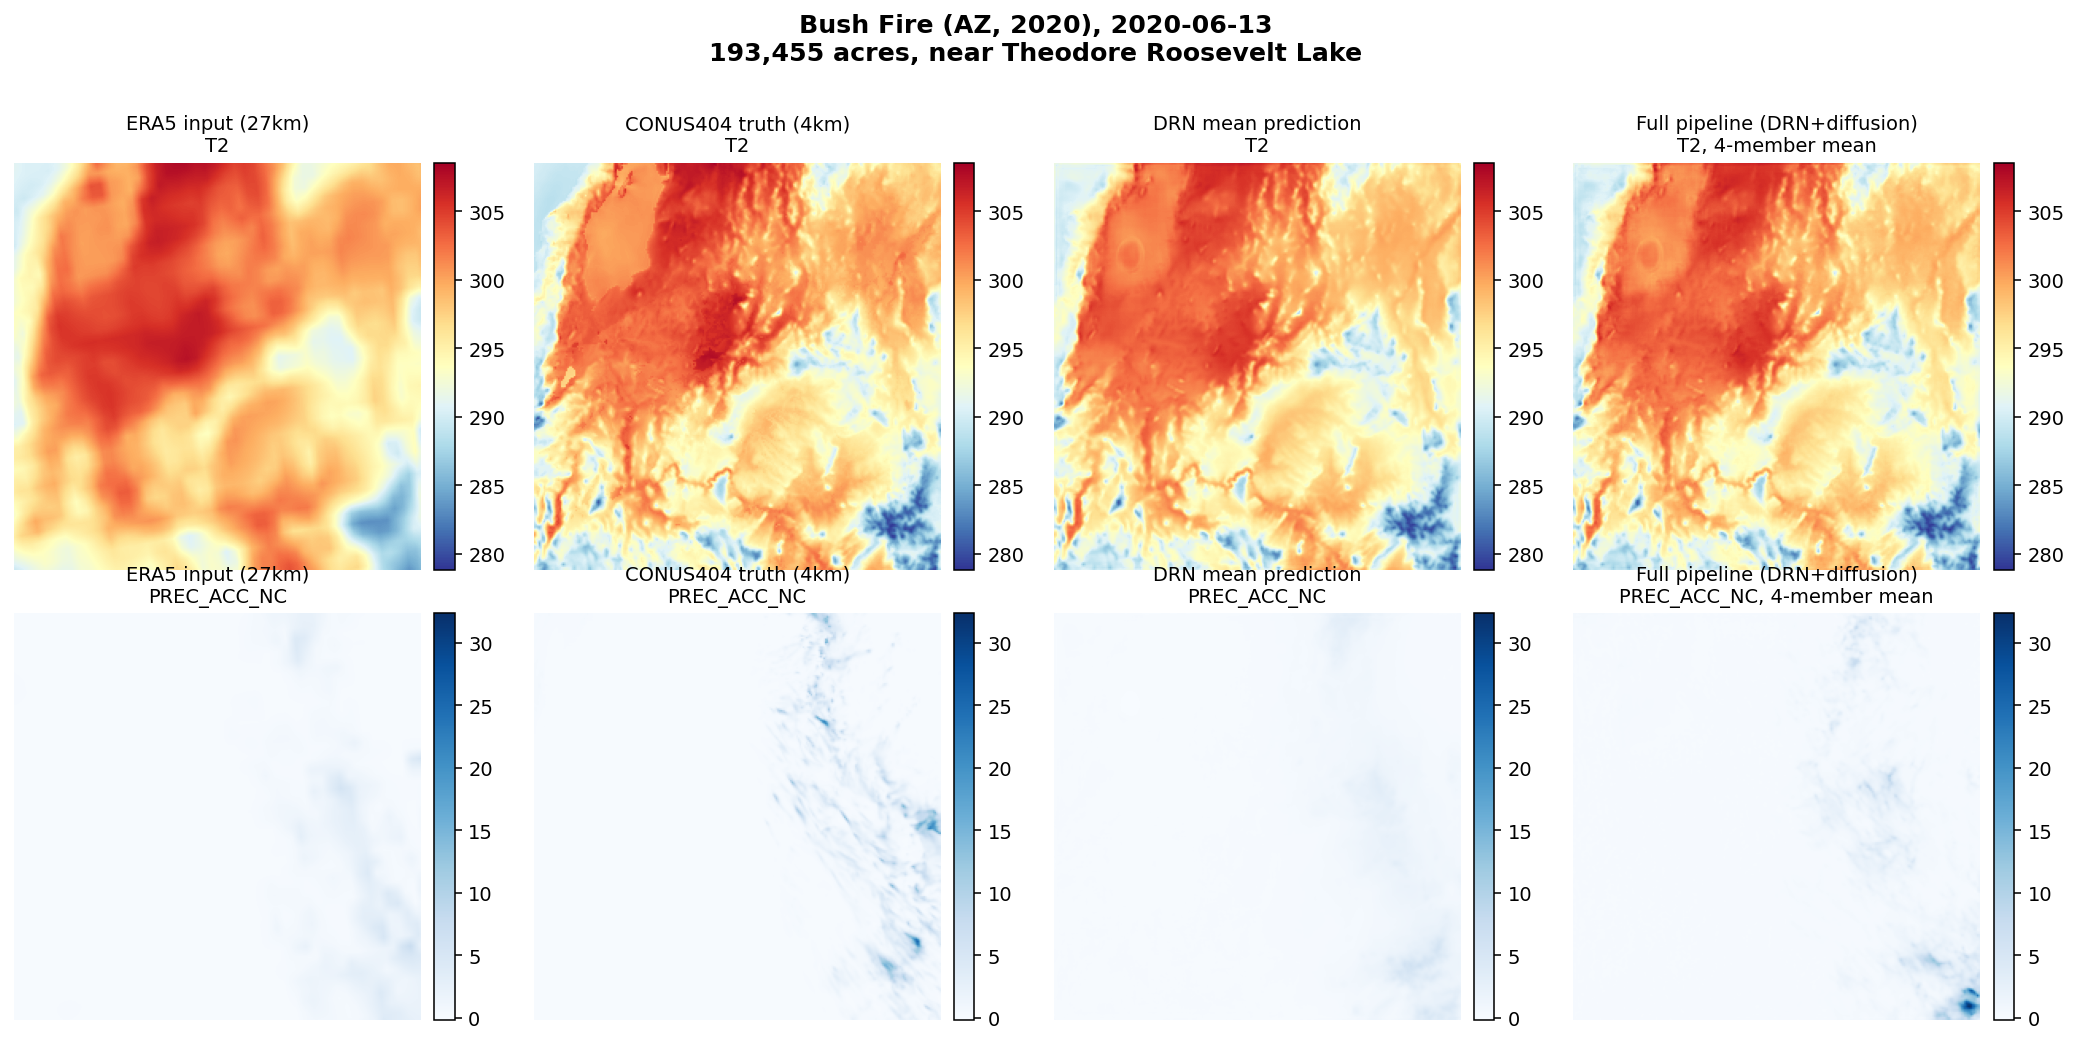
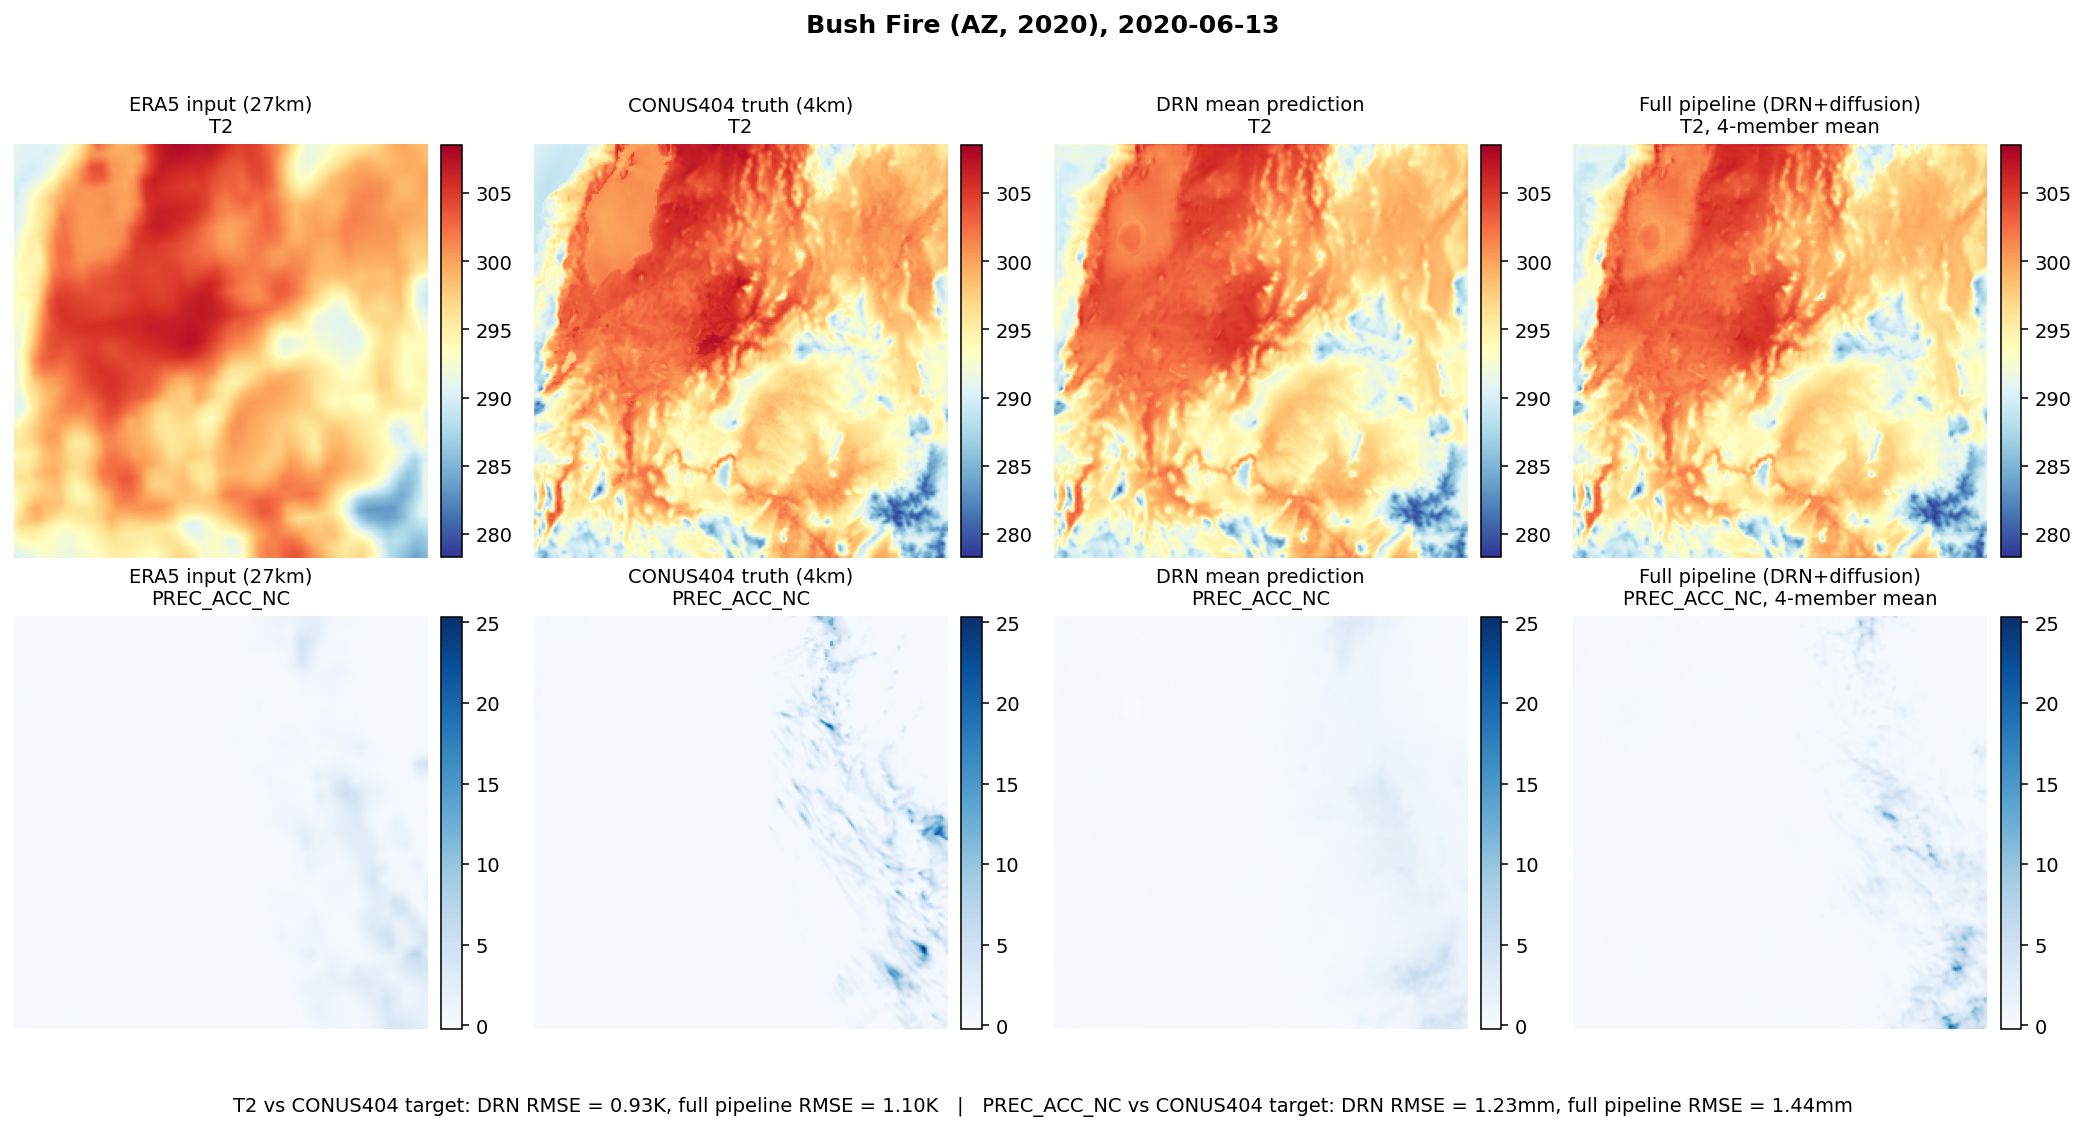
Add CONUS404-target RMSE to wildfire plots, drop taglines
Print DRN and full-pipeline RMSE against the CONUS404 ground truth at
the bottom of each wildfire case-study plot (per variable), and drop
the descriptive taglines under each title.

Claude-Session: https://claude.ai/code/session_01Cr9pG4DCqmSgMizF69GNgL

diff --git a/scripts/run_wildfire_cases.py b/scripts/run_wildfire_cases.py
@@ -111,17 +111,28 @@ def run_case(name, date_str, lat, lon, note, models, stats, static, land, lat_gr
     OUT_DIR.mkdir(parents=True, exist_ok=True)
     safe = name.split(" (")[0].replace(" ", "_")
 
-    fig, axes = plt.subplots(len(PLOT_VARS), 4, figsize=(15, 3.6 * len(PLOT_VARS)), dpi=140)
+    fig, axes = plt.subplots(len(PLOT_VARS), 4, figsize=(15, 3.6 * len(PLOT_VARS) + 0.6), dpi=140)
     if len(PLOT_VARS) == 1:
         axes = axes[None, :]
+    rmse_lines = []
     for row, var in enumerate(PLOT_VARS):
         ci = CONUS404_VARS.index(var)
         ei = ERA5_VARS.index({"T2": "t2m", "PREC_ACC_NC": "tp"}[var])
+        truth_field = truth_phys[ci]
+        drn_field = drn_phys[ci]
+        ens_field = ens_phys[ci]
+        rmse_drn = float(np.sqrt(np.mean((drn_field - truth_field) ** 2)))
+        rmse_ens = float(np.sqrt(np.mean((ens_field - truth_field) ** 2)))
+        unit = "K" if var == "T2" else "mm"
+        rmse_lines.append(
+            f"{var} vs CONUS404 target: DRN RMSE = {rmse_drn:.2f}{unit}, "
+            f"full pipeline RMSE = {rmse_ens:.2f}{unit}"
+        )
         panels = [
             (era5_phys[ei], f"ERA5 input (27km)\n{var}"),
-            (truth_phys[ci], f"CONUS404 truth (4km)\n{var}"),
-            (drn_phys[ci], f"DRN mean prediction\n{var}"),
-            (ens_phys[ci], f"Full pipeline (DRN+diffusion)\n{var}, 4-member mean"),
+            (truth_field, f"CONUS404 truth (4km)\n{var}"),
+            (drn_field, f"DRN mean prediction\n{var}"),
+            (ens_field, f"Full pipeline (DRN+diffusion)\n{var}, 4-member mean"),
         ]
         vmin = min(p[0].min() for p in panels)
         vmax = max(p[0].max() for p in panels)
@@ -132,11 +143,12 @@ def run_case(name, date_str, lat, lon, note, models, stats, static, land, lat_gr
             ax.set_title(title, fontsize=10)
             ax.axis("off")
             plt.colorbar(im, ax=ax, fraction=0.046, pad=0.03)
-    fig.suptitle(f"{name}, {date_str}\n{note}", fontsize=13, fontweight="bold", y=1.02)
-    fig.tight_layout()
+    fig.suptitle(f"{name}, {date_str}", fontsize=13, fontweight="bold", y=1.02)
+    fig.tight_layout(rect=[0, 0.05, 1, 1])
+    fig.text(0.5, 0.01, "   |   ".join(rmse_lines), ha="center", va="bottom", fontsize=10)
     fig.savefig(OUT_DIR / f"{safe}.png", bbox_inches="tight")
     plt.close(fig)
-    print(f"[done] {name}: wrote {OUT_DIR}/{safe}.png")
+    print(f"[done] {name}: wrote {OUT_DIR}/{safe}.png  ({'; '.join(rmse_lines)})")
 
 
 def main():
